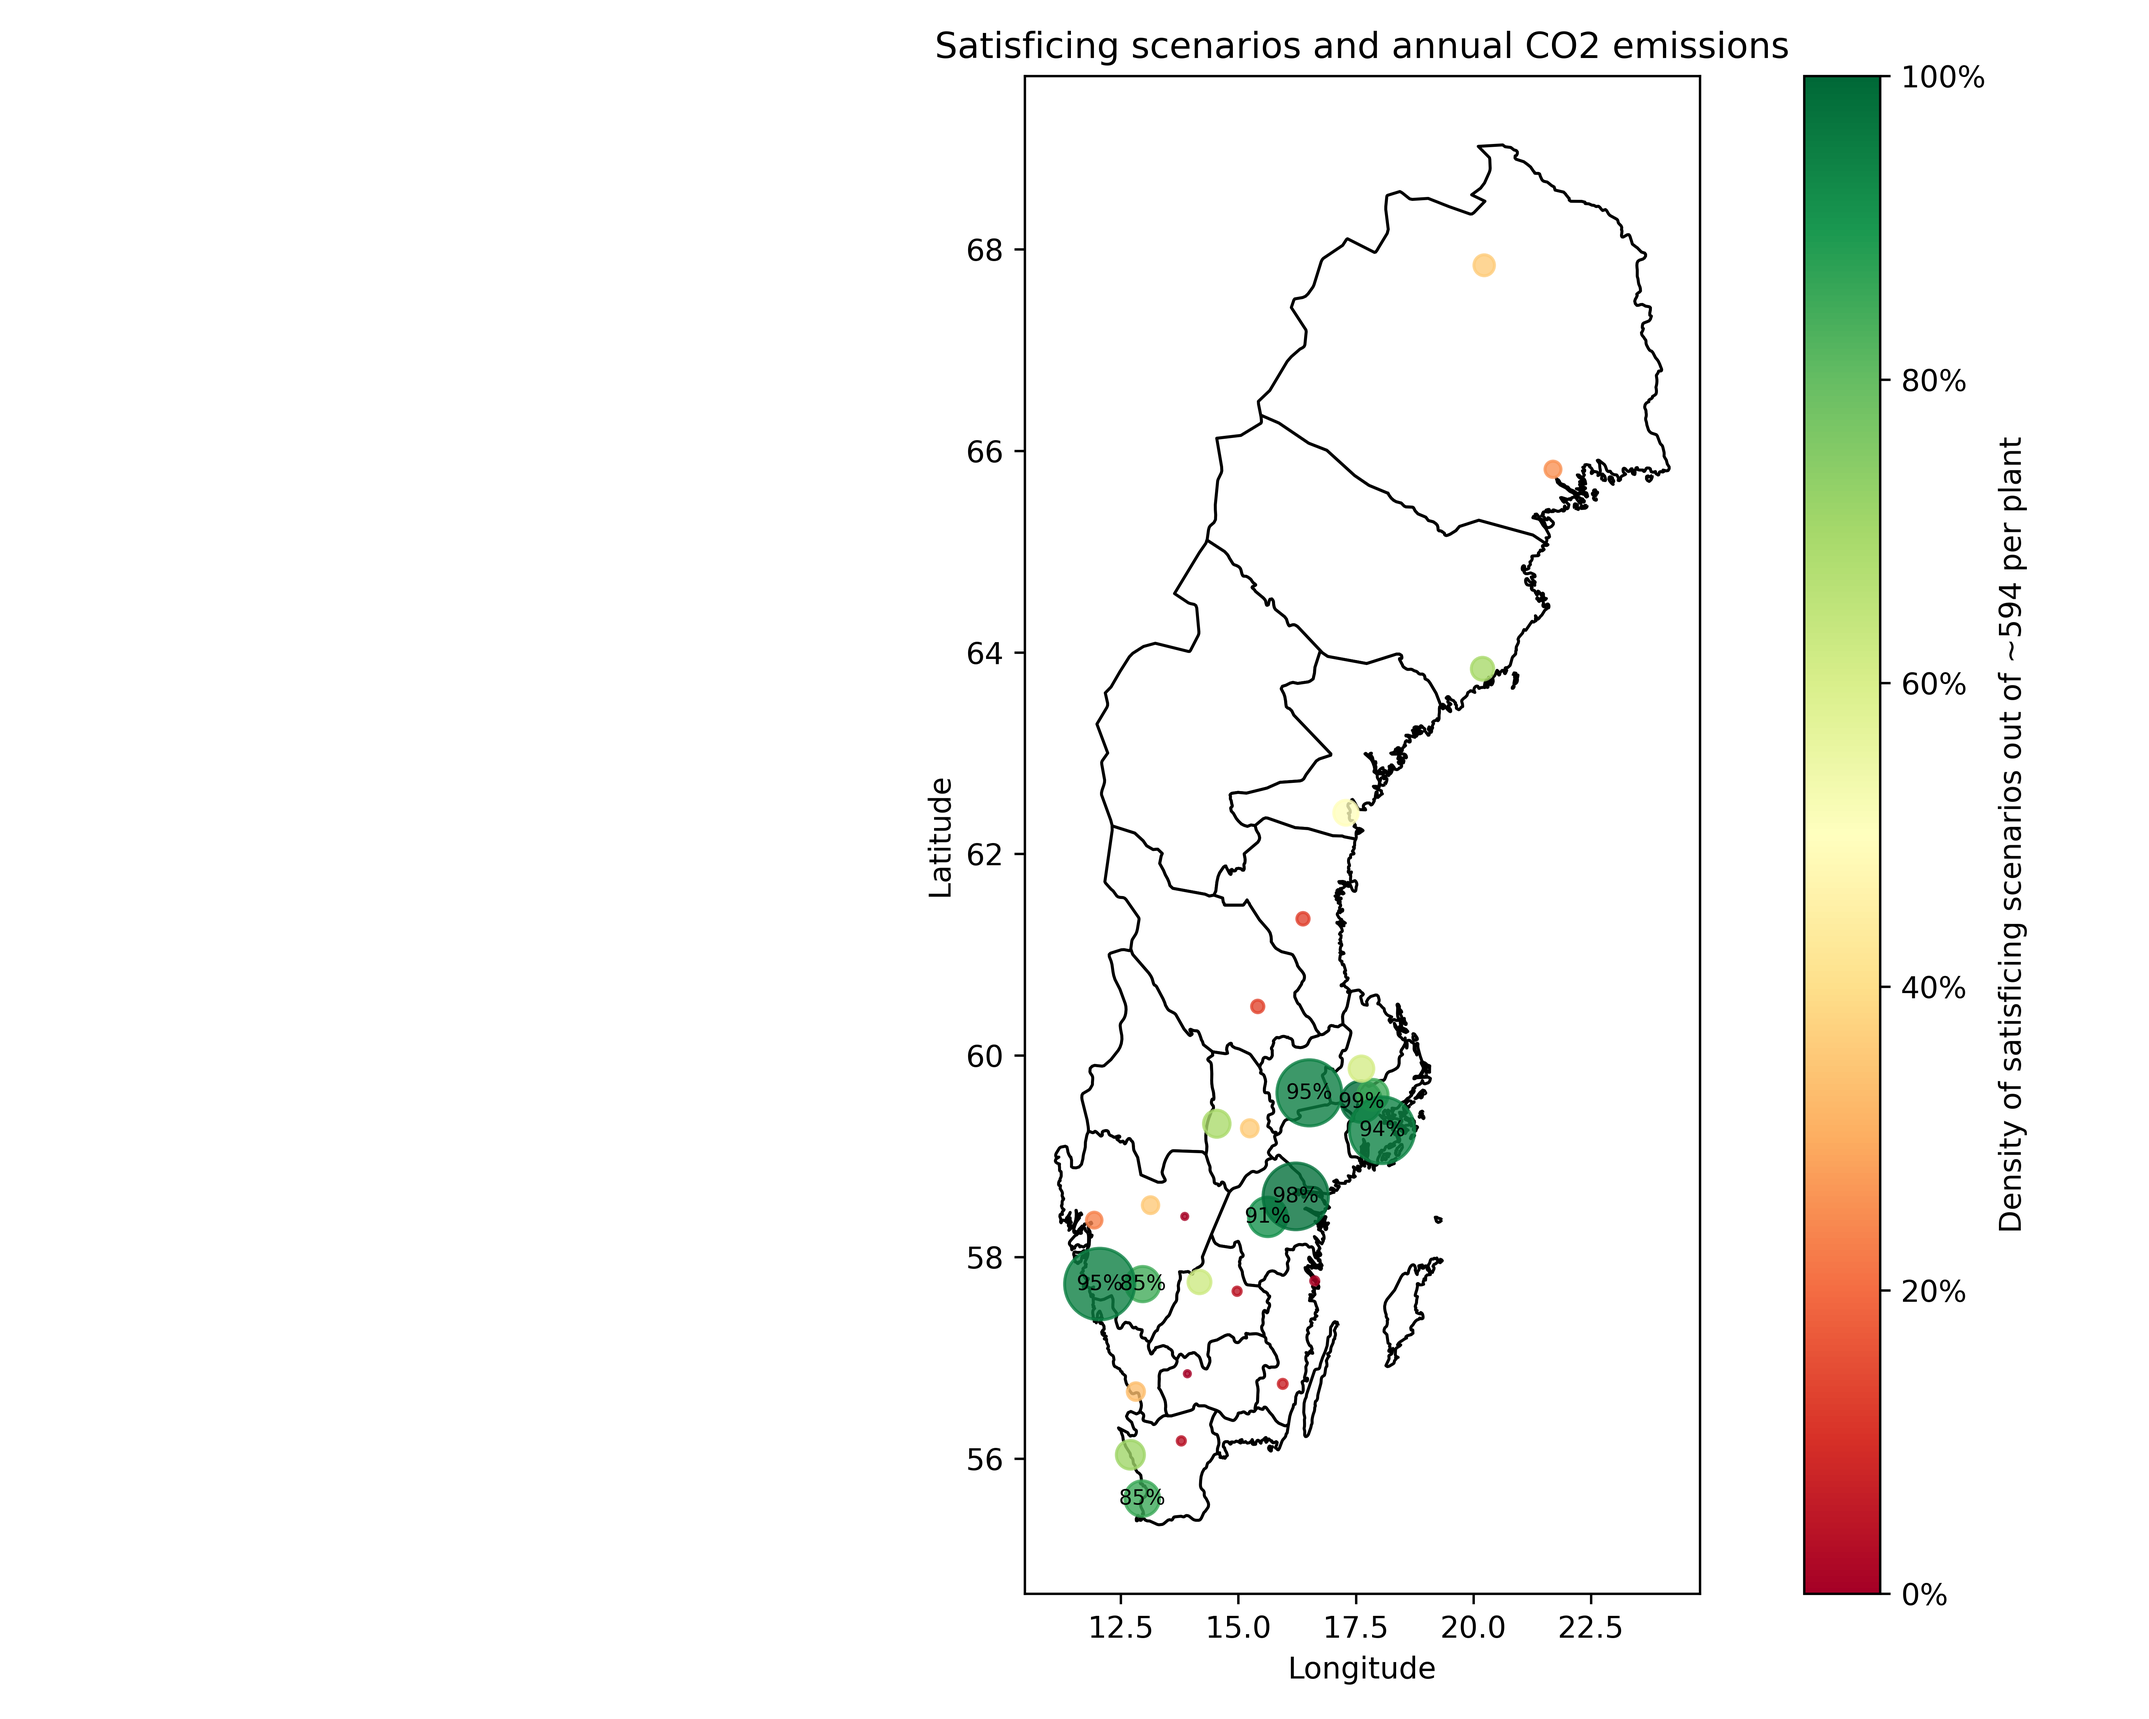
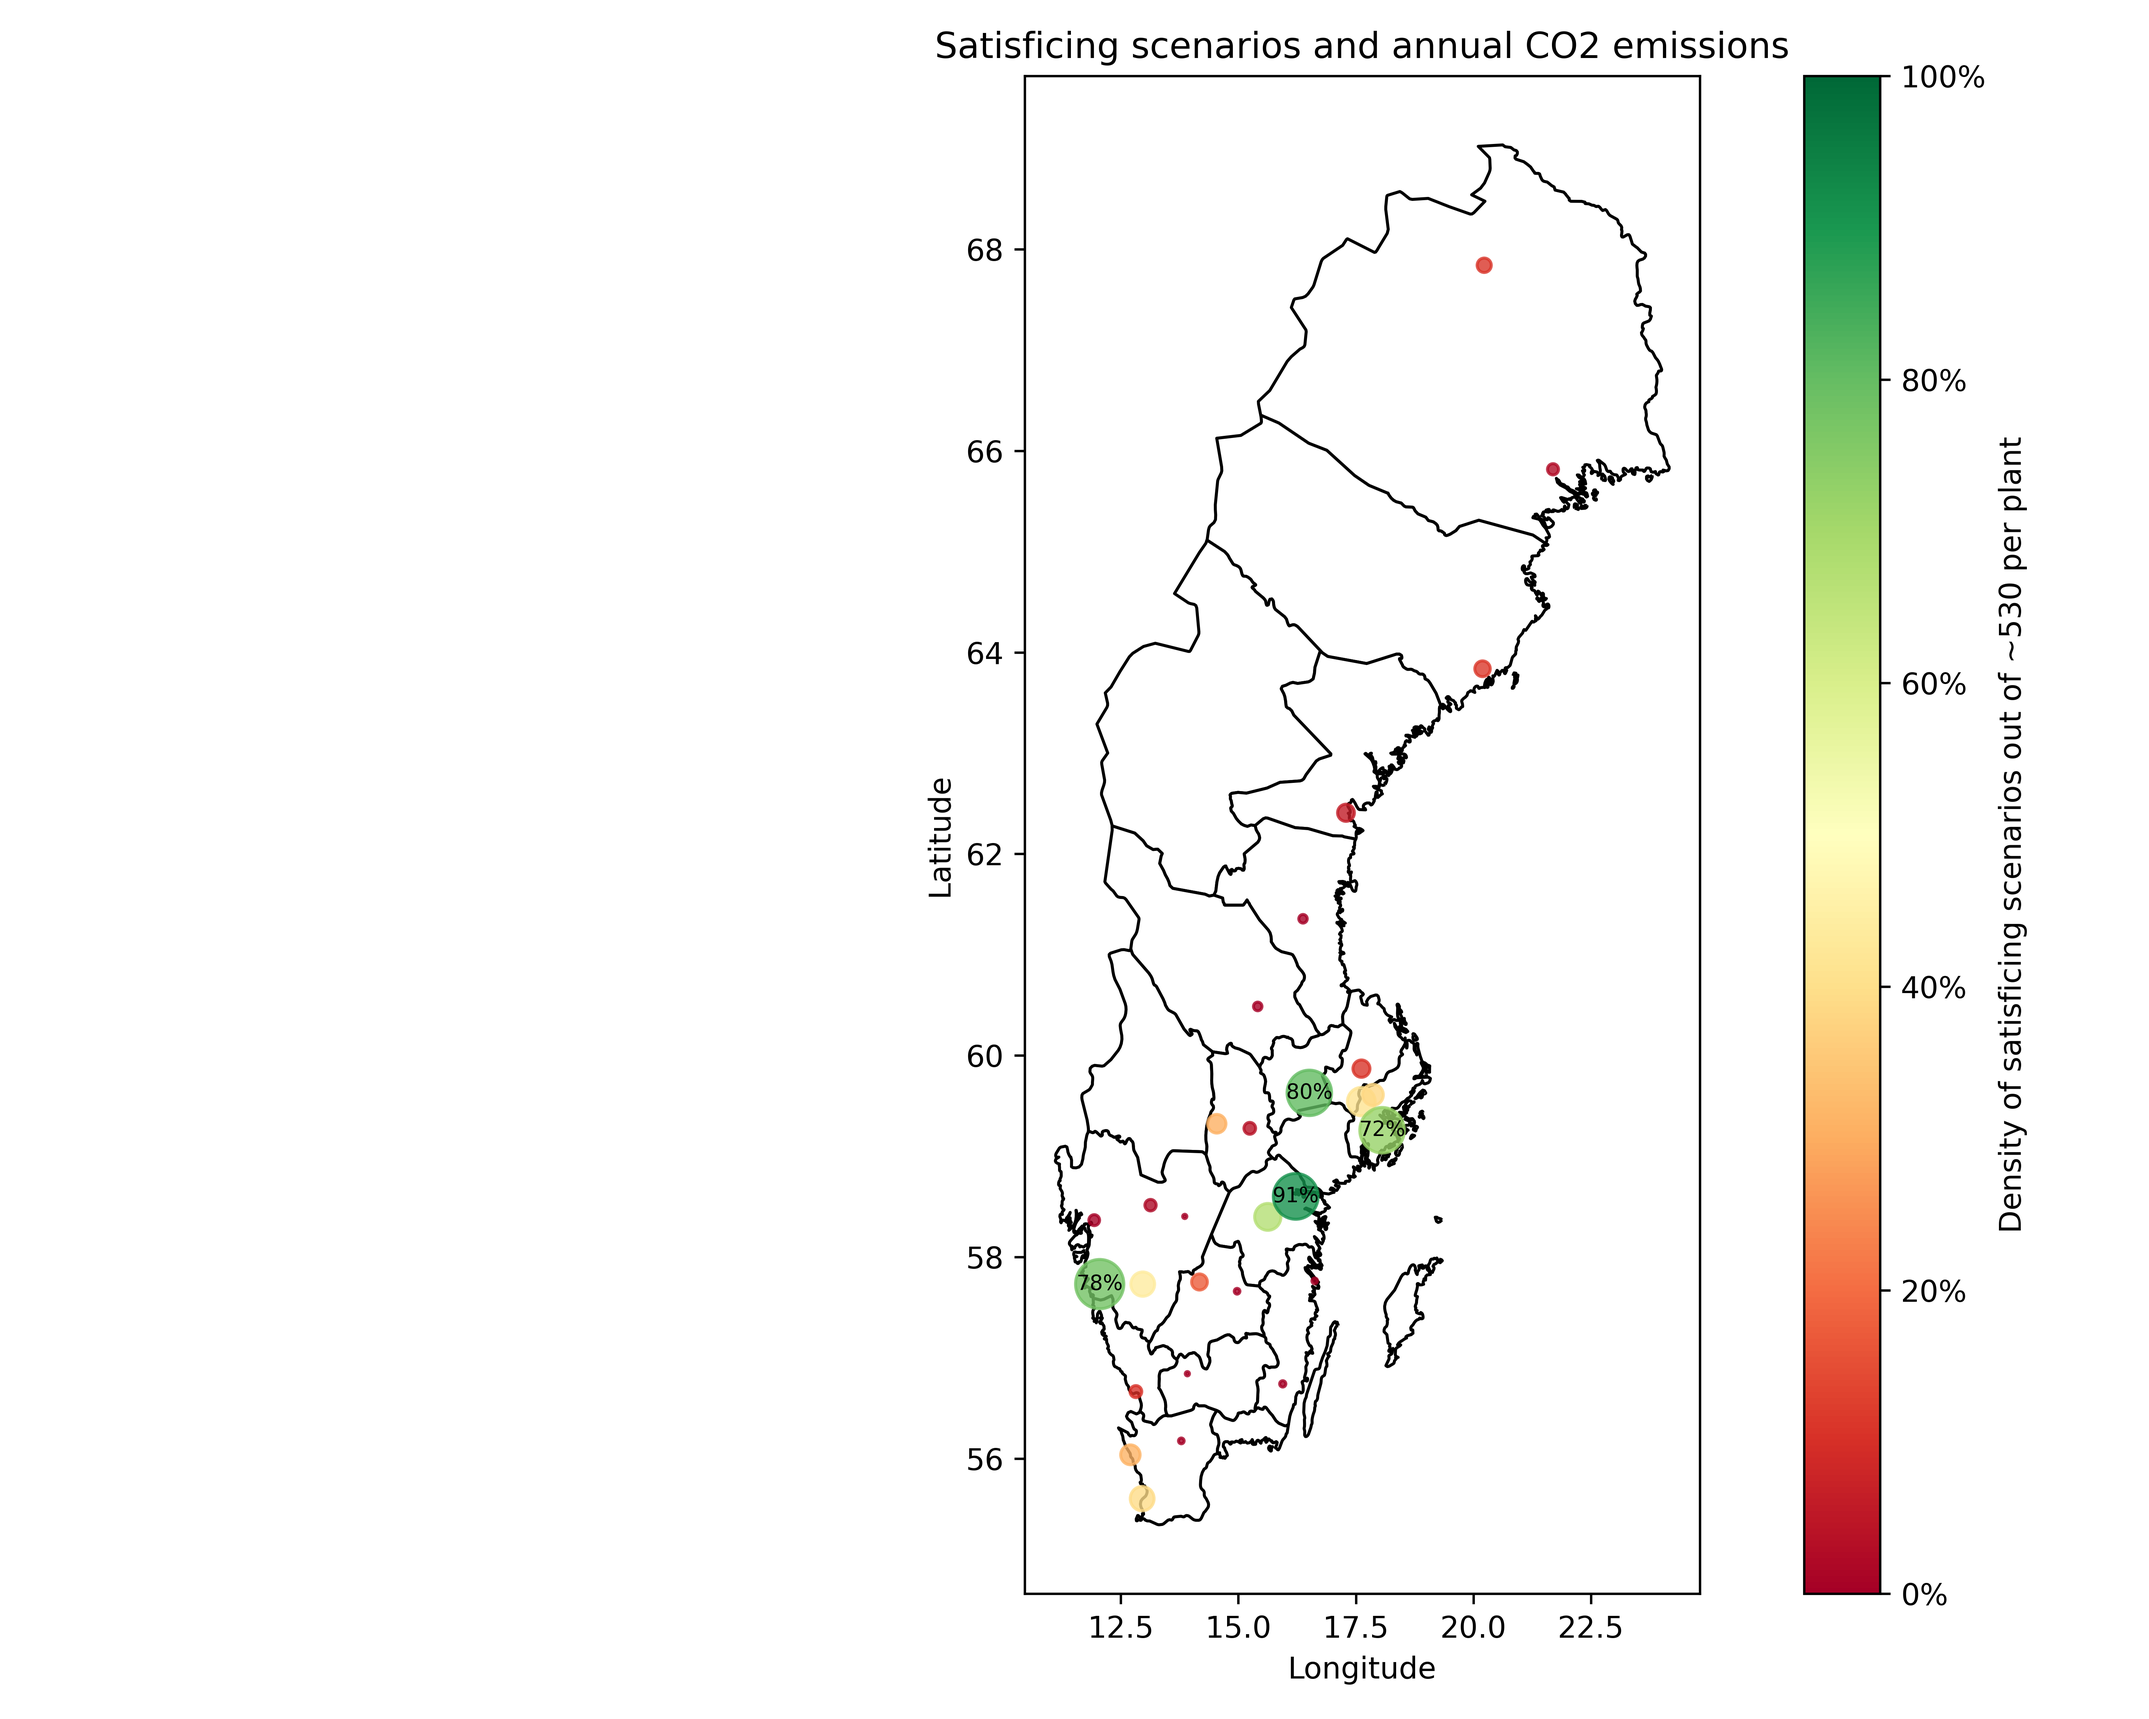
Corrected a bug and updated results for W2E

diff --git a/scenario_discovery.py b/scenario_discovery.py
@@ -12,36 +12,36 @@ chp_outcomes = pd.read_csv("WASTE experiments/all_outcomes.csv", delimiter=",", 
 pulp_experiments = pd.read_csv("PULP experiments/all_experiments.csv",delimiter=",", encoding='utf-8')
 pulp_outcomes = pd.read_csv("PULP experiments/all_outcomes.csv", delimiter=",", encoding='utf-8')
 
-# If you want a specific plant
-pulp_experiments = pulp_experiments[ (pulp_experiments["Name"] == "Ostrand") ].reset_index(drop=True)
-pulp_outcomes = pulp_outcomes[ (pulp_outcomes["Name"] == "Ostrand") ].reset_index(drop=True)
-# chp_experiments = chp_experiments[ (chp_experiments["Name"] == "Igelsta KVV") ].reset_index(drop=True)
-# chp_outcomes = chp_outcomes[ (chp_outcomes["Name"] == "Igelsta KVV") ].reset_index(drop=True)
+# # If you want a specific plant
+# pulp_experiments = pulp_experiments[ (pulp_experiments["Name"] == "Ostrand") ].reset_index(drop=True)
+# pulp_outcomes = pulp_outcomes[ (pulp_outcomes["Name"] == "Ostrand") ].reset_index(drop=True)
+# # chp_experiments = chp_experiments[ (chp_experiments["Name"] == "Igelsta KVV") ].reset_index(drop=True)
+# # chp_outcomes = chp_outcomes[ (chp_outcomes["Name"] == "Igelsta KVV") ].reset_index(drop=True)
 
-# If you want only zero biomass scenarios
-zero_biomass_boolean = (pulp_experiments["BarkIncrease"] == 0)
-if True:
-    pulp_experiments = pulp_experiments[zero_biomass_boolean].reset_index(drop=True)
-    pulp_outcomes = pulp_outcomes[zero_biomass_boolean].reset_index(drop=True)
+# # If you want only zero biomass scenarios
+# zero_biomass_boolean = (pulp_experiments["BarkIncrease"] == 0)
+# if True:
+#     pulp_experiments = pulp_experiments[zero_biomass_boolean].reset_index(drop=True)
+#     pulp_outcomes = pulp_outcomes[zero_biomass_boolean].reset_index(drop=True)
 
-filtered_experiments = pulp_experiments
-filtered_outcomes = pulp_outcomes
+# filtered_experiments = chp_experiments
+# filtered_outcomes = chp_outcomes
 
-# #Figure out what plants have above 300 kt/yr
-# grouped = chp_outcomes.groupby('Name')
-# gross_means = grouped['gross'].mean().sort_values()
-# high_gross_names = gross_means[(gross_means > 350)].index.tolist()
-# # high_gross_names = gross_means[(gross_means < 150)].index.tolist()
-# # high_gross_names = gross_means[(gross_means < 350) & (gross_means > 150)].index.tolist()
-# boolean = chp_outcomes['Name'].isin(high_gross_names)
-# filtered_outcomes = chp_outcomes[boolean].reset_index(drop=True)
-# filtered_experiments = chp_experiments[boolean].reset_index(drop=True)
+#Figure out what plants have above 300 kt/yr
+grouped = chp_outcomes.groupby('Name')
+gross_means = grouped['gross'].mean().sort_values()
+# high_gross_names = gross_means[(gross_means > 250)].index.tolist()
+# high_gross_names = gross_means[(gross_means < 125)].index.tolist()
+high_gross_names = gross_means[(gross_means < 250) & (gross_means > 125)].index.tolist()
+boolean = chp_outcomes['Name'].isin(high_gross_names)
+filtered_outcomes = chp_outcomes[boolean].reset_index(drop=True)
+filtered_experiments = chp_experiments[boolean].reset_index(drop=True)
 
 # Define X and Y
-x = filtered_experiments.iloc[:, 0:23]
-names_list = ['celc', 'beta', 'SupplyStrategy']  # This is essentially "constrained PRIM"
-x = x[names_list]
-y = (filtered_outcomes["capture_cost"] < 80) & (filtered_outcomes["penalty_services"] < 450) & (filtered_outcomes["penalty_biomass"] < 200)
+x = filtered_experiments.iloc[:, 0:24]
+# names_list = ['celc', 'i', 'heat_pump']  # This is essentially "constrained PRIM"
+# x = x[names_list]
+y = (filtered_outcomes["capture_cost"] < 120) & (filtered_outcomes["penalty_services"] < 450) & (filtered_outcomes["penalty_biomass"] < 1)
 print(y.sum(),"scenarios are satisficing out of", len(y))
 
 prim_alg = prim.Prim(x, y, threshold=0.8, peel_alpha=0.1) # Threshold was 0.8 before (Kwakkel) #NOTE: To avoid deprecated error, I replaced line 1506 in prim.py with: np.int(paste_value) => int(paste_value)
@@ -50,9 +50,9 @@ box1 = prim_alg.find_box()
 box1.show_tradeoff()        # Pareto tradeoff 
 box1.write_ppt_to_stdout()  # Prints trajectory/tradeoff, useful!
 
-box1.select(19)
+box1.select(22)
 # box1.inspect_tradeoff()     # Print tradeoff to terminal, not useful?
-prim_alg.show_boxes(19) 
-box1.inspect(19)
+prim_alg.show_boxes(22) 
+box1.inspect(22)
 
-# plt.show()
+plt.show()

diff --git a/waste_plotting.py b/waste_plotting.py
@@ -228,8 +228,8 @@ categorical_restrictions = {
 #     'penalty_biomass': 500
 # }
 satisficing_thresholds_2 = {
-    'capture_cost': 100,
-    'penalty_services': 350,
+    'capture_cost': 120,
+    'penalty_services': 450,
     'penalty_biomass': 1
 }
 # satisficing_thresholds_3 = {
@@ -261,12 +261,12 @@ filtered_experiments_low = chp_experiments[boolean].reset_index(drop=True)
 
 # # plot_everything(filtered_experiments, filtered_outcomes, chp_coordinates, numerical_restrictions, categorical_restrictions, satisficing_thresholds_1)
 # plot_everything(chp_experiments, chp_outcomes, chp_coordinates, numerical_restrictions, categorical_restrictions, satisficing_thresholds_1)
-# plot_everything(w2e_experiments, w2e_outcomes, w2e_coordinates, numerical_restrictions, categorical_restrictions, satisficing_thresholds_2)
+plot_everything(w2e_experiments, w2e_outcomes, w2e_coordinates, numerical_restrictions, categorical_restrictions, satisficing_thresholds_2)
 # plot_everything(pulp_experiments, pulp_outcomes, pulp_coordinates, numerical_restrictions, categorical_restrictions, satisficing_thresholds_3)
 
 numerical_restrictions_1 = {
     # 'COP': (3, 3.80),
-    'celc': (26, 75),
+    'celc': (20, 54),
     # # 'rate': (0.78, 0.893),
     'i': (0.05, 0.08),
     # 'time': (4400, 5999),
@@ -289,10 +289,10 @@ categorical_restrictions_2 = {
     # "duration_increase": [0]
 }
 numerical_restrictions_3 = {
-    'celc': (20, 62),
+    'celc': (20, 68),
     # 'Tsupp': (83, 100),
     # 'rate': (0.78, 0.893),
-    'i': (0.05, 0.074),
+    'i': (0.05, 0.072),
     # 'time': (4200, 5999),
     # "duration_increase": (None, 1001)
 }

diff --git a/total_penalty.py b/total_penalty.py
@@ -194,7 +194,7 @@ filtered_experiments_low = w2e_experiments[boolean].reset_index(drop=True)
 
 numerical_restrictions_1 = {
     # 'COP': (3, 3.80),
-    'celc': (26, 75),
+    'celc': (20, 54),
     # # 'rate': (0.78, 0.893),
     'i': (0.05, 0.08),
     # 'time': (4400, 5999),
@@ -217,10 +217,10 @@ categorical_restrictions_2 = {
     # "duration_increase": [0]
 }
 numerical_restrictions_3 = {
-    'celc': (20, 62),
+    'celc': (20, 68),
     # 'Tsupp': (83, 100),
     # 'rate': (0.78, 0.893),
-    'i': (0.05, 0.074),
+    'i': (0.05, 0.072),
     # 'time': (4200, 5999),
     # "duration_increase": (None, 1001)
 }
@@ -465,7 +465,7 @@ for i, name in enumerate(summary.index):
         print("Cumulative ES penalty in 2045 [GWh/yr] =", color_95th)
         target_count += 1
 
-    if x_end > 20000 and target_count < 3:
+    if x_end > 19000 and target_count < 3:
         print("Cumulative ES penalty @>20 Mt [GWh/yr] =", color_5th)
         print("Cumulative ES penalty @>20 Mt [GWh/yr] =", color_mean)
         print("Cumulative ES penalty @>20 Mt [GWh/yr] =", color_95th)

diff --git a/WASTE experiments/waste_model.py b/WASTE experiments/waste_model.py
@@ -128,7 +128,7 @@ class W2E_plant:
         V_fluegas = n_fluegas * 22.414                                 #[Nm3/s]  Using molar volume of ideal gas
 
         # Now calculating CO2 from %CO2
-        V_CO2 = V_fluegas*0.16  #[m3CO2/s]
+        V_CO2 = V_fluegas*0.11  #[m3CO2/s]
         n_CO2 = V_CO2/22.414    #[kmolCO2/s]
         m_CO2 = n_CO2*44        #[kg/s]
 
